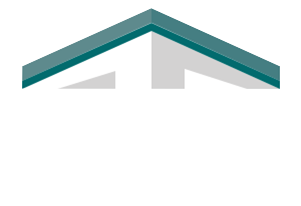
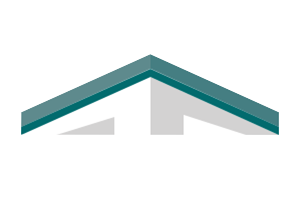
borrado de imagenes, corrección icono pestaña

Changed region(s): [[0.0598, 0.0291, 0.9568, 0.6699], [0.1794, 0.5534, 0.3887, 0.6699]]

diff --git a/Vertice/proyectos.html b/Vertice/proyectos.html
@@ -16,6 +16,7 @@
     <meta charset="UTF-8">
     <meta name="viewport" content="width=device-width, initial-scale=1.0">
     <title>Vértice Soluciones | Proyectos</title>
+    <link rel="icon" href="./img/vertice-soluciones-arriba.png">
 
     <link rel="preconnect" href="https://fonts.gstatic.com">
     <link href="https://fonts.googleapis.com/css2?family=Poppins:wght@200;300;600&display=swap" rel="stylesheet">

diff --git a/Vertice/servicios.html b/Vertice/servicios.html
@@ -16,6 +16,7 @@
     <meta charset="UTF-8">
     <meta name="viewport" content="width=device-width, initial-scale=1.0">
     <title>Vértice Soluciones | Servicios</title>
+    <link rel="icon" href="./img/vertice-soluciones-arriba.png">
 
     <link rel="preconnect" href="https://fonts.gstatic.com">
     <link href="https://fonts.googleapis.com/css2?family=Poppins:wght@200;300;600&display=swap" rel="stylesheet">

diff --git a/Vertice/conocenos.html b/Vertice/conocenos.html
@@ -17,6 +17,7 @@
     <meta name="viewport" content="width=device-width, initial-scale=1.0">
     
     <title>Vértice Soluciones | Conócenos</title>
+    <link rel="icon" href="./img/vertice-soluciones-arriba.png">
 
     <link rel="preconnect" href="https://fonts.gstatic.com">
     <link href="https://fonts.googleapis.com/css2?family=Poppins:wght@200;300;600&display=swap" rel="stylesheet">

diff --git a/Vertice/contacto.html b/Vertice/contacto.html
@@ -17,6 +17,7 @@
     <meta name="viewport" content="width=device-width, initial-scale=1.0">
     
     <title>Vértice Soluciones | Contacto</title>
+    <link rel="icon" href="./img/vertice-soluciones-arriba.png">
 
     <link rel="preconnect" href="https://fonts.gstatic.com">
     <link href="https://fonts.googleapis.com/css2?family=Poppins:wght@200;300;600&display=swap" rel="stylesheet">

diff --git a/Vertice/index.html b/Vertice/index.html
@@ -20,6 +20,8 @@
 
     <title>Vértice Soluciones | Inicio</title>
 
+    <link rel="icon" href="./img/vertice-soluciones-arriba.png">
+
     <link rel="preconnect" href="https://fonts.gstatic.com">
     <link href="https://fonts.googleapis.com/css2?family=Poppins:wght@200;300;600&display=swap" rel="stylesheet">
     <link rel="stylesheet" href="css/bootstrap.min.css">
